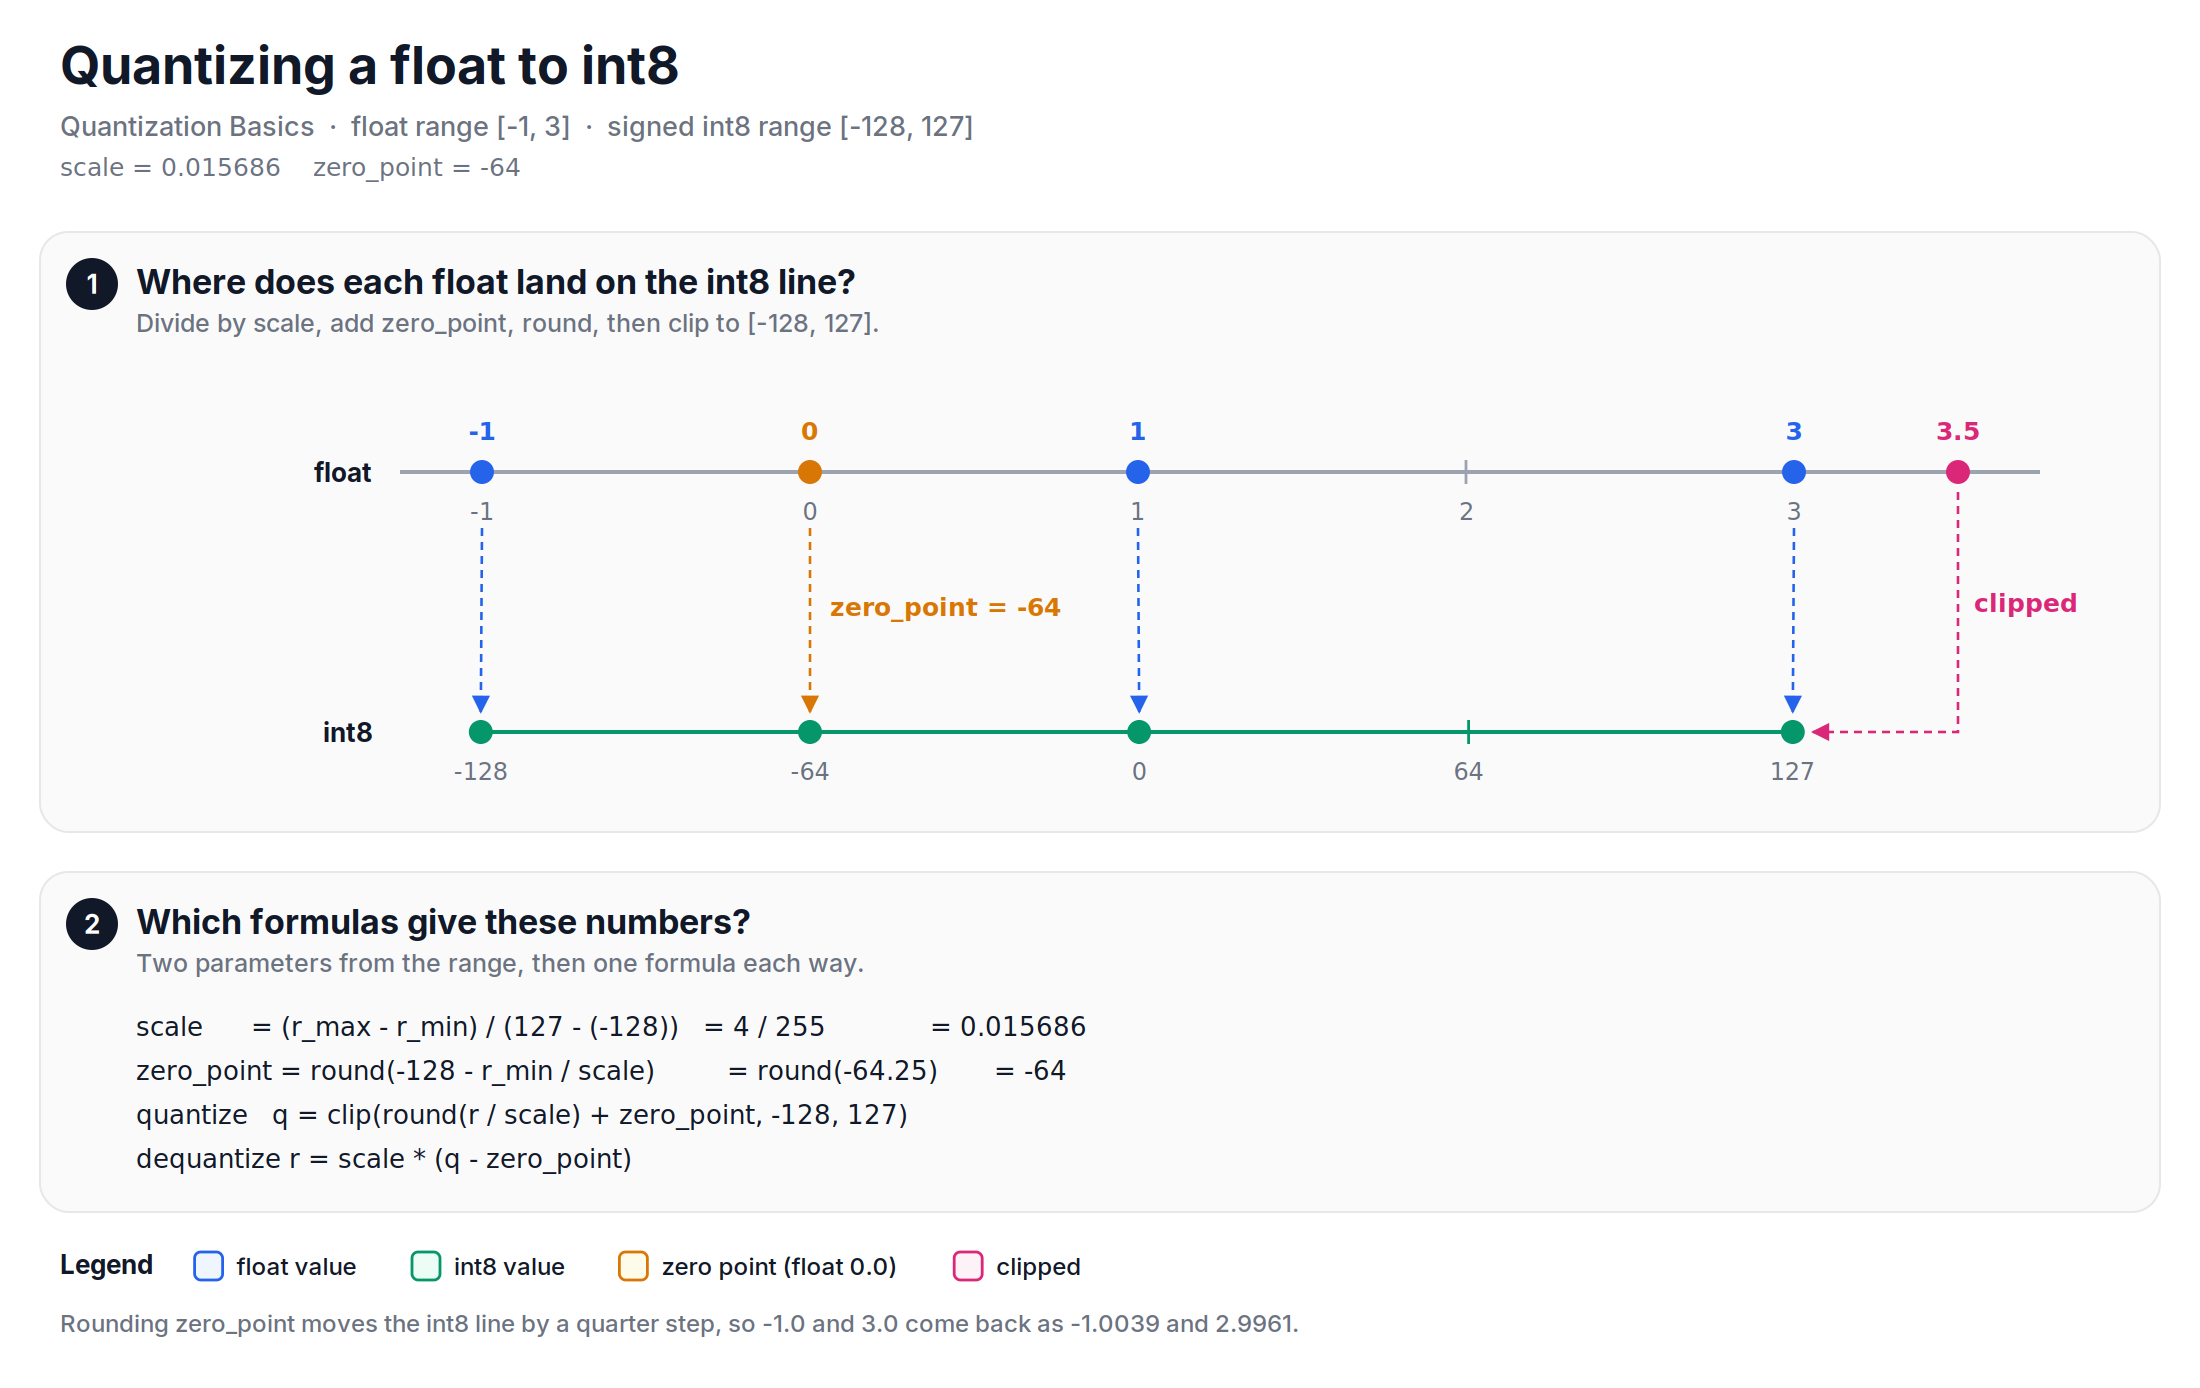
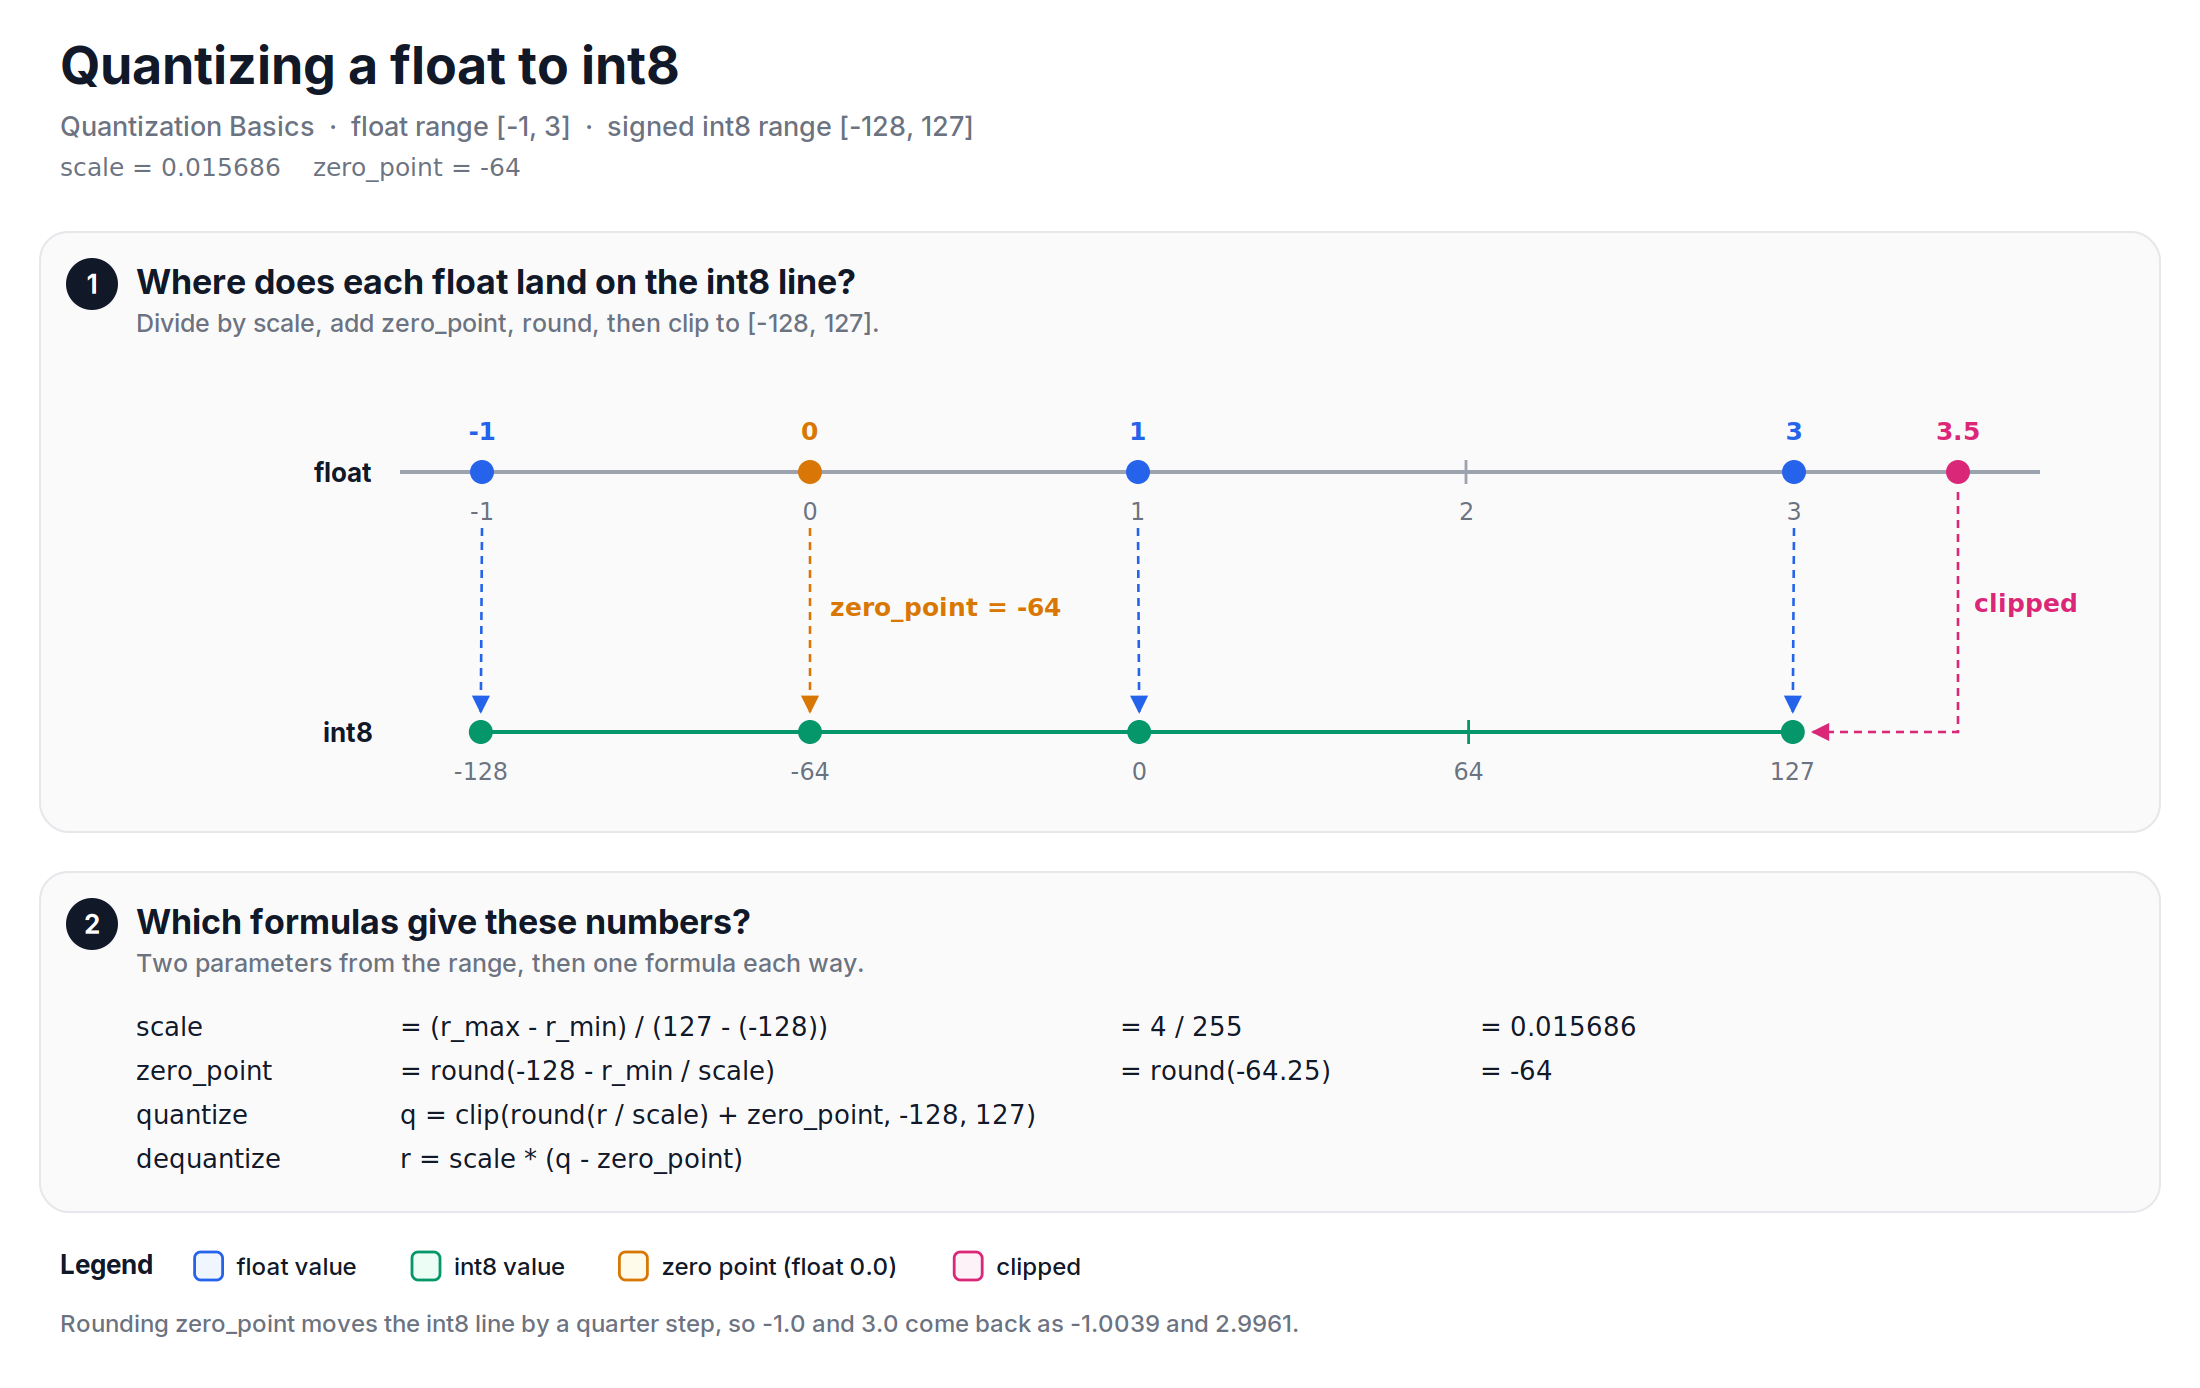
Int8 on Silicon, part 6: add what-held-up figure; fix formula columns in Quantization Basics figure 4

diff --git a/learnings/20261107_int8_on_silicon_6/diagrams/fig4_what_held_up.py b/learnings/20261107_int8_on_silicon_6/diagrams/fig4_what_held_up.py
@@ -1,0 +1,37 @@
+"""Figure 4: the design decisions that held up, with the part that shows each one.
+
+Values: parts 1-5 of the series (scripts and text).
+"""
+
+from figkit import table, table_height
+from svglib import BLUE, EMERALD, INK, Diagram
+
+d = Diagram(width=1100)
+d.header("What held up",
+         "Int8 on Silicon  ·  part 6  ·  the decisions I would make again",
+         params="each one is backed by a script or a check in the part where it appears")
+
+rows = [
+    ("decision", "part", "why it held up"),
+    ("one post-processing unit for every operation", "1, 3", "nine operations, one thing to verify"),
+    ("a fixed shift of 20, one rounding", "1, 6", "the best a 32-bit product allows"),
+    ("zero points folded into the bias", "2", "the MAC array multiplies raw int8"),
+    ("pad with the input zero point", "2", "the folded bias stays exact at the border"),
+    ("the ReLU family as one PReLU kernel", "3", "five activations, one kernel"),
+    ("averages as convolutions with 1/N in alpha", "4", "no divider needed"),
+    ("256-entry tables for one-input functions", "4", "one read per value"),
+    ("graph rewrites that keep the int8 output equal", "5", "the graph changes, the output does not"),
+    ("the span rule for the accelerator/host split", "5", "no subgraph waits for the host"),
+    ("golden files in plain text, before/after dumps", "5", "a mismatch points to a layer and a cause"),
+    ("two targets: hardware bit-exact, TFLite accuracy", "5", "never mixed up"),
+]
+y = 116
+H = table_height(len(rows))
+d.panel(y, H, 1, "Which decisions would I make again?",
+        "All of these. The gaps in part 6 are in the details around them, not in the decisions.")
+table(d, y + 92, rows, [80, 560, 650], lambda i, j, v: BLUE if j == 1 else (EMERALD if j == 2 else INK))
+
+y += H + 20
+d.legend(30, y, [(BLUE, "part of the series"), (EMERALD, "the evidence")])
+y = d.footnotes(30, y + 40, ["The gaps (truncated constants, one extra rounding, border rules, checks in int32) are in figure 3."])
+d.save(height=y + 10)

diff --git a/learnings/20261107_quantization_formula/diagrams/fig4_quantize.py b/learnings/20261107_quantization_formula/diagrams/fig4_quantize.py
@@ -50,14 +50,15 @@ d.text(xc + 8, y + 190, "clipped", 12.5, PINK, "bold", mono=True)
 
 y += 320
 d.panel(y, 170, 2, "Which formulas give these numbers?", "Two parameters from the range, then one formula each way.")
-lines = [
-    "scale      = (r_max - r_min) / (127 - (-128))   = 4 / 255             = 0.015686",
-    "zero_point = round(-128 - r_min / scale)         = round(-64.25)       = -64",
-    "quantize   q = clip(round(r / scale) + zero_point, -128, 127)",
-    "dequantize r = scale * (q - zero_point)",
+rows = [
+    ("scale", "= (r_max - r_min) / (127 - (-128))", "= 4 / 255", "= 0.015686"),
+    ("zero_point", "= round(-128 - r_min / scale)", "= round(-64.25)", "= -64"),
+    ("quantize", "q = clip(round(r / scale) + zero_point, -128, 127)", "", ""),
+    ("dequantize", "r = scale * (q - zero_point)", "", ""),
 ]
-for i, s in enumerate(lines):
-    d.text(68, y + 82 + i * 22, s, 13, INK, mono=True)
+for i, r in enumerate(rows):
+    for x, v in zip((68, 200, 560, 740), r):
+        d.text(x, y + 82 + i * 22, v, 13, INK, mono=True)
 
 y += 190
 d.legend(30, y, [(BLUE, "float value"), (EMERALD, "int8 value"), (AMBER, "zero point (float 0.0)"), (PINK, "clipped")])
